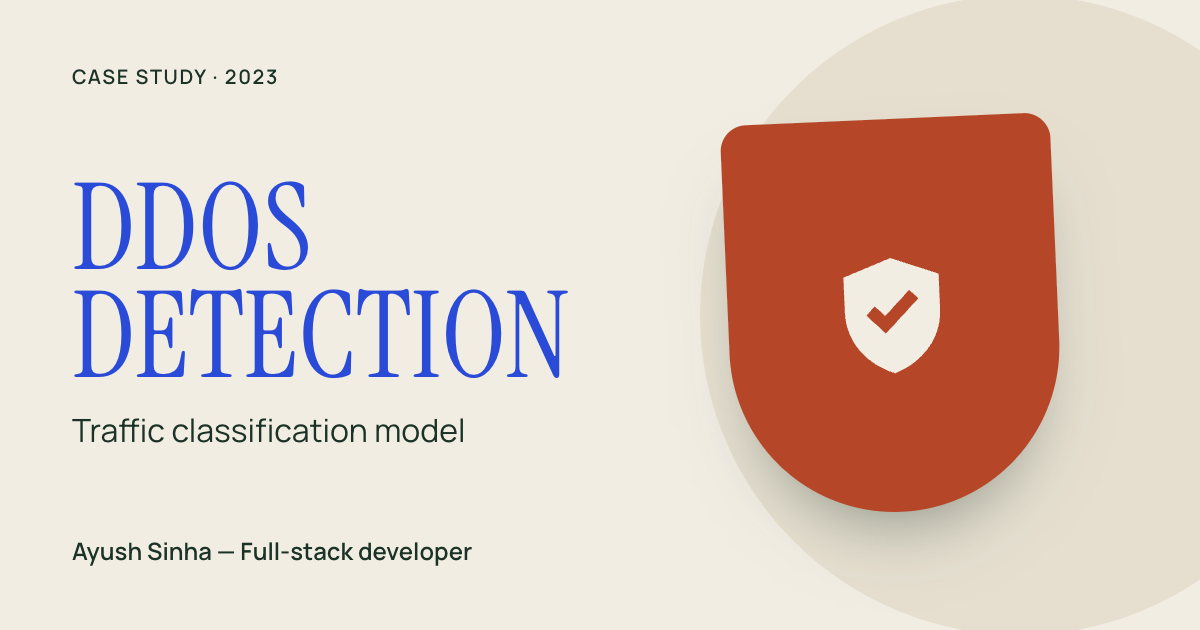
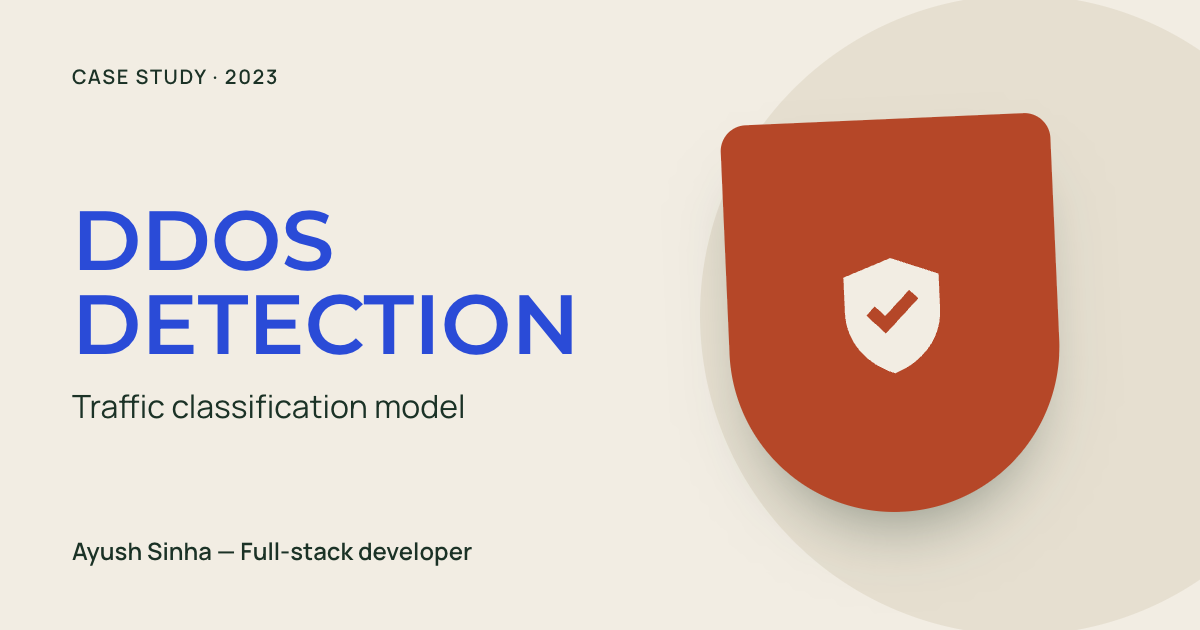
Switch headings to Montserrat

Changed region(s): [[0.0617, 0.2714, 0.4933, 0.6032], [0.0617, 0.6333, 0.4008, 0.7238]]

diff --git a/src/styles/components.css b/src/styles/components.css
@@ -26,7 +26,7 @@
 body.is-transitioning .page-transition { pointer-events: auto; }
 .page-transition__label-mask { overflow: hidden; }
 .page-transition__label {
-  display: block; font-family: var(--font-serif); text-transform: uppercase;
+  display: block; font-family: var(--font-display); font-weight: var(--display-weight); text-transform: uppercase;
   font-size: var(--text-hero); line-height: 1;
 }
 .page-transition__line {
@@ -38,7 +38,7 @@ body.is-transitioning .page-transition { pointer-events: auto; }
 .preloader { position: fixed; inset: 0; z-index: 1600; background: var(--paper); overflow: hidden; }
 .preloader__mark {
   position: absolute; inset: 0; display: grid; place-items: center;
-  font-family: var(--font-serif); color: var(--accent);
+  font-family: var(--font-display); font-weight: var(--display-weight); color: var(--accent);
   font-size: calc(var(--text-display) * 1.3); line-height: 1;
   font-variant-numeric: tabular-nums; pointer-events: none; user-select: none;
 }
@@ -117,7 +117,7 @@ body.is-transitioning .page-transition { pointer-events: auto; }
 .site-header.is-ready .site-header__brand-track { transform: none; }
 .site-header__brand-full, .site-header__brand-mark { grid-area: 1 / 1; justify-self: center; align-self: center; }
 .site-header__brand-full {
-  font-family: var(--font-serif); font-size: clamp(1.6rem, 1.2rem + 1vw, 2.3rem); line-height: 1;
+  font-family: var(--font-display); font-weight: var(--display-weight); font-size: clamp(1.6rem, 1.2rem + 1vw, 2.3rem); line-height: 1;
   text-transform: uppercase; white-space: nowrap;
   transition: transform 0.7s var(--ease-premium), opacity 0.3s;
 }
@@ -174,8 +174,8 @@ body.is-transitioning .page-transition { pointer-events: auto; }
 .fp-nav__inner-mask > * { display: inline-block; }
 .fp-nav__link {
   display: inline-flex; align-items: flex-start; gap: 0.3em;
-  font-family: var(--font-serif); text-transform: uppercase; line-height: 0.95;
-  font-size: clamp(3.4rem, calc(2.2rem + 5.4vw), 999rem);
+  font-family: var(--font-display); font-weight: var(--display-weight); text-transform: uppercase; line-height: 0.95;
+  font-size: calc(clamp(3.4rem, calc(2.2rem + 5.4vw), 999rem) * var(--display-scale));
 }
 .fp-nav__index { font-family: var(--font-sans); font-size: 13px; font-weight: 600; letter-spacing: 0.06em; padding-top: 0.9em; opacity: 0.7; }
 .fp-nav__item.is-active .fp-nav__link { color: var(--ochre); }
@@ -201,8 +201,8 @@ body.is-transitioning .page-transition { pointer-events: auto; }
 .page-hero__piece svg { width: 100%; height: auto; }
 .page-hero__cover-content { position: absolute; inset: 0; display: grid; place-items: center; z-index: 2; padding: 0 5vw; }
 .page-hero__cover-title {
-  font-family: var(--font-serif); font-weight: 400; text-transform: uppercase; text-align: center;
-  font-size: clamp(3.4rem, calc(2.3rem + 5.3vw), 999rem); line-height: 0.95;
+  font-family: var(--font-display); font-weight: var(--display-weight); text-transform: uppercase; text-align: center;
+  font-size: calc(clamp(3.4rem, calc(2.3rem + 5.3vw), 999rem) * var(--display-scale)); line-height: 0.95;
 }
 
 /* ============ Page intro ============ */
@@ -242,7 +242,7 @@ body.is-transitioning .page-transition { pointer-events: auto; }
   transform-origin: 50% 60%; transition: transform 1s var(--ease-soft), color 0.6s var(--ease-soft);
 }
 .project-card__art svg { width: 100%; height: auto; }
-.project-card__title { font-family: var(--font-serif); font-weight: 400; font-size: clamp(1.4rem, 0.9rem + 1vw, 2.1rem); line-height: 1; text-transform: uppercase; }
+.project-card__title { font-family: var(--font-display); font-weight: var(--display-weight); font-size: clamp(1.4rem, 0.9rem + 1vw, 2.1rem); line-height: 1; text-transform: uppercase; }
 .project-card__kicker { margin-top: 6px; font-size: var(--text-small); }
 .project-card__link { position: absolute; inset: 0; z-index: 3; }
 .project-card__decor { position: absolute; inset: 0; pointer-events: none; }
@@ -282,8 +282,8 @@ body.is-transitioning .page-transition { pointer-events: auto; }
   padding: clamp(24px, 4vw, 64px); min-height: min(76vh, 720px);
   display: grid; grid-template-columns: 1fr 1fr; gap: 40px; transform-origin: 50% 0;
 }
-.stack-card__number { font-family: var(--font-serif); font-size: clamp(3rem, 2rem + 4vw, 7rem); line-height: 1; }
-.stack-card__title { font-family: var(--font-serif); font-weight: 400; text-transform: uppercase; font-size: clamp(2.4rem, 1.6rem + 3vw, 5rem); line-height: 0.95; margin-top: 18px; }
+.stack-card__number { font-family: var(--font-display); font-weight: var(--display-weight); font-size: clamp(3rem, 2rem + 4vw, 7rem); line-height: 1; }
+.stack-card__title { font-family: var(--font-display); font-weight: var(--display-weight); text-transform: uppercase; font-size: calc(clamp(2.4rem, 1.6rem + 3vw, 5rem) * var(--display-scale)); line-height: 0.95; margin-top: 18px; }
 .stack-card__role { margin-top: 14px; font-size: var(--text-medium); font-weight: 600; }
 .stack-card__rows { margin: 0; display: grid; grid-template-columns: 1fr 1fr; align-content: start; gap: 28px 32px; position: relative; z-index: 1; }
 .stack-card__rows dt { font-size: 12px; font-weight: 600; letter-spacing: 0.08em; text-transform: uppercase; opacity: 0.75; margin-bottom: 8px; }
@@ -293,7 +293,7 @@ body.is-transitioning .page-transition { pointer-events: auto; }
 .stack-card__wide li::before { content: ''; position: absolute; left: 0; top: 0.55em; width: 7px; height: 7px; background: currentColor; border-radius: 1px; transform: rotate(45deg); }
 
 /* ============ Spec table ============ */
-.spec__title { font-family: var(--font-serif); font-weight: 400; text-transform: uppercase; font-size: clamp(2.2rem, 1.6rem + 2.4vw, 4rem); line-height: 1; margin-bottom: var(--space-s); color: var(--accent); }
+.spec__title { font-family: var(--font-display); font-weight: var(--display-weight); text-transform: uppercase; font-size: clamp(2.2rem, 1.6rem + 2.4vw, 4rem); line-height: 1; margin-bottom: var(--space-s); color: var(--accent); }
 .spec__row {
   --rule: 1; position: relative; display: grid; grid-template-columns: minmax(140px, 1fr) 2.4fr; gap: 24px;
   padding: 20px 0; font-size: var(--text-medium);
@@ -311,8 +311,8 @@ body.is-transitioning .page-transition { pointer-events: auto; }
 .pause__stage { position: sticky; top: 0; height: 100vh; overflow: hidden; }
 .pause__title {
   position: absolute; left: 50%; top: 52%; transform: translate(-50%, -50%); width: max-content; max-width: 86vw;
-  text-align: center; color: var(--accent); font-family: var(--font-serif); text-transform: uppercase;
-  font-size: clamp(2rem, 1.2rem + 3vw, 4.5rem); line-height: 1; z-index: 2;
+  text-align: center; color: var(--accent); font-family: var(--font-display); font-weight: var(--display-weight); text-transform: uppercase;
+  font-size: calc(clamp(2rem, 1.2rem + 3vw, 4.5rem) * var(--display-scale)); line-height: 1; z-index: 2;
 }
 .pause__piece { position: absolute; will-change: transform; z-index: 3; }
 .pause__piece svg { width: 100%; height: auto; }
@@ -329,8 +329,8 @@ body.is-transitioning .page-transition { pointer-events: auto; }
 }
 .depth__word {
   position: absolute; left: 50%; top: 4%; transform: translateX(-50%);
-  font-family: var(--font-serif); text-transform: uppercase; line-height: 0.85;
-  font-size: 30vw; color: var(--accent); white-space: nowrap;
+  font-family: var(--font-display); font-weight: var(--display-weight); text-transform: uppercase; line-height: 0.85;
+  font-size: calc(30vw * var(--display-scale)); color: var(--accent); white-space: nowrap;
 }
 .depth__front { position: absolute; inset: 0; z-index: 2; pointer-events: none; }
 .depth__piece { position: absolute; }
@@ -367,7 +367,7 @@ body.is-transitioning .page-transition { pointer-events: auto; }
   display: flex; justify-content: space-between; align-items: center; gap: 20px; flex-wrap: wrap;
   margin-top: var(--space-l); padding-block: 26px; border-block: 1px solid var(--line);
 }
-.site-footer__email { font-family: var(--font-serif); font-size: clamp(1.6rem, 1.2rem + 1.4vw, 2.8rem); }
+.site-footer__email { font-family: var(--font-display); font-weight: var(--display-weight); font-size: clamp(1.6rem, 1.2rem + 1.4vw, 2.8rem); }
 .site-footer__links { display: flex; gap: 28px; font-weight: 600; }
 .site-footer__legal { display: flex; justify-content: space-between; gap: 16px; flex-wrap: wrap; padding-top: 20px; font-size: var(--text-small); opacity: 0.8; }
 
@@ -413,7 +413,7 @@ body.is-transitioning .page-transition { pointer-events: auto; }
 .belt__item-top { display: flex; justify-content: center; gap: 12px; font-size: 11px; font-weight: 600; letter-spacing: 0.06em; text-transform: uppercase; }
 .belt__item-art { width: 32%; display: grid; place-items: center; transition: transform 0.9s var(--ease-soft); }
 .belt__item-art svg { width: 100%; height: auto; }
-.belt__item-title { font-family: var(--font-serif); text-transform: uppercase; font-size: clamp(1.3rem, 0.85rem + 0.95vw, 2rem); line-height: 0.95; }
+.belt__item-title { font-family: var(--font-display); font-weight: var(--display-weight); text-transform: uppercase; font-size: clamp(1.3rem, 0.85rem + 0.95vw, 2rem); line-height: 0.95; }
 .belt__item-kicker { font-size: 12px; margin-top: 2px; } /* full opacity: AA contrast on every shape colour */
 @media (hover: hover) and (pointer: fine) {
   .belt__item:hover .belt__item-inner { translate: 0 -14px; rotate: calc(var(--shape-tilt, 0deg) * -1.5); }
@@ -426,7 +426,7 @@ body.is-transitioning .page-transition { pointer-events: auto; }
   padding-bottom: var(--container-padding); pointer-events: none;
 }
 .home-bar__intro { max-width: 380px; pointer-events: auto; }
-.home-bar__role { font-family: var(--font-serif); text-transform: uppercase; color: var(--accent); font-size: clamp(2rem, 1.4rem + 1.6vw, 3.2rem); line-height: 0.95; }
+.home-bar__role { font-family: var(--font-display); font-weight: var(--display-weight); text-transform: uppercase; color: var(--accent); font-size: clamp(2rem, 1.4rem + 1.6vw, 3.2rem); line-height: 0.95; }
 .home-bar__stack { margin-top: 8px; font-size: var(--text-small); line-height: 1.4; }
 .home-bar__ctas { display: flex; gap: 8px; margin-top: 14px; flex-wrap: wrap; }
 .home-bar__cta { transition: background-color 0.3s, color 0.3s; }
@@ -437,7 +437,7 @@ body.is-transitioning .page-transition { pointer-events: auto; }
 @keyframes scan { 0% { transform: scaleY(0); transform-origin: top; } 50% { transform: scaleY(1); transform-origin: top; } 51% { transform-origin: bottom; } 100% { transform: scaleY(0); transform-origin: bottom; } }
 .home-bar__current { justify-self: end; text-align: right; display: flex; flex-direction: column; gap: 4px; }
 .home-bar__count { font-size: 12px; font-weight: 600; letter-spacing: 0.08em; font-variant-numeric: tabular-nums; }
-.home-bar__name { font-family: var(--font-serif); font-size: clamp(1.6rem, 1.2rem + 1.2vw, 2.6rem); line-height: 1; text-transform: uppercase; animation: name-in 0.6s var(--ease-expo); }
+.home-bar__name { font-family: var(--font-display); font-weight: var(--display-weight); font-size: clamp(1.6rem, 1.2rem + 1.2vw, 2.6rem); line-height: 1; text-transform: uppercase; animation: name-in 0.6s var(--ease-expo); }
 @keyframes name-in { from { transform: translateY(40%); opacity: 0; } }
 
 /* ============ Responsive ============ */
@@ -448,7 +448,7 @@ body.is-transitioning .page-transition { pointer-events: auto; }
   .stack-card__inner { grid-template-columns: 1fr; min-height: 0; }
   .fp-nav__item { margin-left: 0; }
   .depth__box { aspect-ratio: 4 / 5; }
-  .depth__word { font-size: 40vw; }
+  .depth__word { font-size: calc(40vw * var(--display-scale)); }
   .depth__subtitle { left: 8%; right: 8%; max-width: none; bottom: 8%; }
   .depth__piece--a { width: 54%; bottom: 22%; }
   .depth__piece--b { width: 28%; bottom: 30%; }
@@ -474,7 +474,7 @@ body.is-transitioning .page-transition { pointer-events: auto; }
   .card-slider__track > * { flex-basis: 82%; scroll-snap-align: start; }
   .spec__row { grid-template-columns: 1fr; gap: 6px; }
   .stack-card__rows { grid-template-columns: 1fr; }
-  .fp-nav__link { font-size: clamp(2.6rem, 13vw, 4rem); }
+  .fp-nav__link { font-size: calc(clamp(2.6rem, 13vw, 4rem) * var(--display-scale)); }
   .fp-nav__footer { flex-direction: column; align-items: flex-start; }
   .fp-nav__meta { align-items: flex-start; }
   .belt__item { --w: 58vw; }
@@ -486,7 +486,7 @@ body.is-transitioning .page-transition { pointer-events: auto; }
   .home-bar__role { font-size: 2rem; }
   .home-bar__current { justify-self: start; text-align: left; }
   .floating-nav__link { padding: 10px 14px; }
-  .site-footer__cta-text { font-size: clamp(2.8rem, 15vw, 4.5rem); }
+  .site-footer__cta-text { font-size: calc(clamp(2.8rem, 15vw, 4.5rem) * var(--display-scale)); }
 }
 @media (prefers-reduced-motion: reduce) {
   .belt__badge { animation: none; }

diff --git a/src/styles/pages.css b/src/styles/pages.css
@@ -2,7 +2,7 @@
 .category { padding-top: var(--space-xl); }
 .category__head { display: grid; grid-template-columns: 1.2fr 1fr; gap: var(--grid-gap); align-items: end; }
 .category__title {
-  font-family: var(--font-serif); font-weight: 400; text-transform: uppercase; color: var(--accent);
+  font-family: var(--font-display); font-weight: var(--display-weight); text-transform: uppercase; color: var(--accent);
   font-size: var(--text-hero); line-height: 0.92;
 }
 .category__text { font-size: var(--text-medium); margin-bottom: 24px; }
@@ -14,7 +14,7 @@
 .project-hero { padding-top: calc(var(--header-h) + 3vh); text-align: center; }
 .project-hero__meta { display: flex; justify-content: space-between; align-items: flex-start; gap: 20px; text-align: left; }
 .project-hero__meta-right { text-align: right; font-size: var(--text-small); font-weight: 600; text-transform: uppercase; letter-spacing: 0.05em; }
-.project-hero__title { color: var(--accent); margin-top: 3vh; font-size: clamp(3.6rem, calc(2.2rem + 8.5vw), 999rem); }
+.project-hero__title { color: var(--accent); margin-top: 3vh; font-size: calc(clamp(3.6rem, calc(2.2rem + 8.5vw), 999rem) * var(--display-scale)); }
 .project-hero__object {
   position: relative; overflow: hidden; margin: clamp(24px, 4vw, 56px) auto 0; width: min(100%, 1100px);
   aspect-ratio: 16 / 9; border-radius: var(--radius);
@@ -31,7 +31,7 @@
   padding-top: var(--space-l); text-align: center;
 }
 .project-stats__item { padding: 28px 12px; border-top: 1px solid var(--line); }
-.project-stats__value { font-family: var(--font-serif); color: var(--accent); font-size: clamp(3.4rem, 2.4rem + 3.6vw, 7rem); line-height: 1; text-transform: uppercase; }
+.project-stats__value { font-family: var(--font-display); font-weight: var(--display-weight); color: var(--accent); font-size: clamp(3.4rem, 2.4rem + 3.6vw, 7rem); line-height: 1; text-transform: uppercase; }
 .project-stats__label { margin-top: 10px; font-size: 12px; font-weight: 600; letter-spacing: 0.08em; text-transform: uppercase; }
 
 .project-meta { padding-top: var(--space-l); }
@@ -58,7 +58,7 @@
 }
 
 .other-projects { padding-top: var(--space-xl); }
-.other-projects__title { font-family: var(--font-serif); font-weight: 400; text-transform: uppercase; font-size: clamp(2.2rem, 1.6rem + 2.4vw, 4rem); color: var(--accent); }
+.other-projects__title { font-family: var(--font-display); font-weight: var(--display-weight); text-transform: uppercase; font-size: clamp(2.2rem, 1.6rem + 2.4vw, 4rem); color: var(--accent); }
 
 /* ============ About ============ */
 .about-tables { display: grid; gap: var(--space-xl); padding-top: var(--space-l); max-width: 1300px; margin-inline: auto; }
@@ -66,7 +66,7 @@
 /* ============ Experience ============ */
 .experience { padding-top: var(--space-xl); }
 .experience__title {
-  font-family: var(--font-serif); font-weight: 400; text-transform: uppercase; text-align: center; color: var(--accent);
+  font-family: var(--font-display); font-weight: var(--display-weight); text-transform: uppercase; text-align: center; color: var(--accent);
   font-size: var(--text-hero); line-height: 0.92; margin-bottom: var(--space-l);
 }
 
@@ -144,7 +144,7 @@
 .portrait__piece--a { width: clamp(48px, 6vw, 90px); left: 4%; top: 8%; color: var(--ochre); }
 .portrait__piece--b { width: clamp(60px, 8vw, 120px); right: 2%; bottom: 6%; color: var(--accent); }
 .portrait__title {
-  font-family: var(--font-serif); font-weight: 400; text-transform: uppercase; color: var(--accent);
+  font-family: var(--font-display); font-weight: var(--display-weight); text-transform: uppercase; color: var(--accent);
   font-size: var(--text-hero); line-height: 0.92;
 }
 .portrait__lead { margin-top: var(--space-s); font-size: var(--text-large); line-height: 1.25; max-width: 560px; }

diff --git a/src/styles/tokens.css b/src/styles/tokens.css
@@ -8,15 +8,18 @@
   --white: #fffdf8;
   --line: color-mix(in srgb, var(--ink) 22%, transparent);
 
-  --font-serif: 'Instrument Serif', 'Iowan Old Style', Palatino, Georgia, serif;
+  --font-display: 'Montserrat', 'Avenir Next', 'Helvetica Neue', Arial, sans-serif;
+  --display-weight: 600;
   --font-sans: 'Manrope', 'Avenir Next', 'Helvetica Neue', Arial, sans-serif;
 
   --text-small: 0.875rem;
   --text-base: 1rem;
   --text-medium: clamp(1.125rem, calc(1.085rem + 0.165vw), 1.25rem);
   --text-large: clamp(1.5rem, calc(1.2rem + 0.9vw), 2.25rem);
-  --text-hero: clamp(3.6rem, calc(2.3rem + 5.3vw), 999rem);
-  --text-display: clamp(4rem, calc(2.9rem + 11vw), 999rem);
+  /* Montserrat is far wider than a condensed serif: scale big type down */
+  --display-scale: 0.74;
+  --text-hero: calc(clamp(3.6rem, calc(2.3rem + 5.3vw), 999rem) * var(--display-scale));
+  --text-display: calc(clamp(4rem, calc(2.9rem + 11vw), 999rem) * var(--display-scale));
 
   --space-s: 2.5rem;
   --space-xs: 3.75rem;

diff --git a/src/styles/base.css b/src/styles/base.css
@@ -53,10 +53,9 @@ img, svg { display: block; max-width: 100%; }
 /* Text that is about to be revealed by JS stays hidden to avoid a flash */
 html.js-motion [data-reveal]:not(.is-revealed) { visibility: hidden; }
 
-.serif { font-family: var(--font-serif); font-weight: 400; }
+.serif { font-family: var(--font-display); font-weight: var(--display-weight); }
 .display {
-  font-family: var(--font-serif);
-  font-weight: 400;
+  font-family: var(--font-display); font-weight: var(--display-weight);
   font-size: var(--text-display);
   line-height: 0.9;
   text-transform: uppercase;

diff --git a/src/main.tsx b/src/main.tsx
@@ -1,6 +1,6 @@
 import { createRoot } from 'react-dom/client'
 import { BrowserRouter } from 'react-router-dom'
-import '@fontsource/instrument-serif/400.css'
+import '@fontsource/montserrat/600.css'
 import '@fontsource/manrope/400.css'
 import '@fontsource/manrope/600.css'
 import './styles/tokens.css'

diff --git a/CHANGELOG.md b/CHANGELOG.md
@@ -5,6 +5,20 @@ Live site: https://ayushsinha0804.github.io/Portfolio/
 
 ---
 
+## 2026-11-14 — Typography and copy
+
+### Changed
+- **Headings now use Montserrat** (SemiBold) instead of Instrument Serif. Body text stays Manrope.
+  - Large heading sizes are scaled down so the wider letterforms fit on phones.
+  - Link-preview images were regenerated in the new font.
+- The home link in the menu and on the page transition is now called **Home** instead of "Index".
+- Tightened the copy on the About, Work and Experience pages.
+
+### Removed
+- CGPA from the education entry.
+
+---
+
 ## 2026-11-14 — Polish, performance and SEO
 
 Commit `d6d3417`
